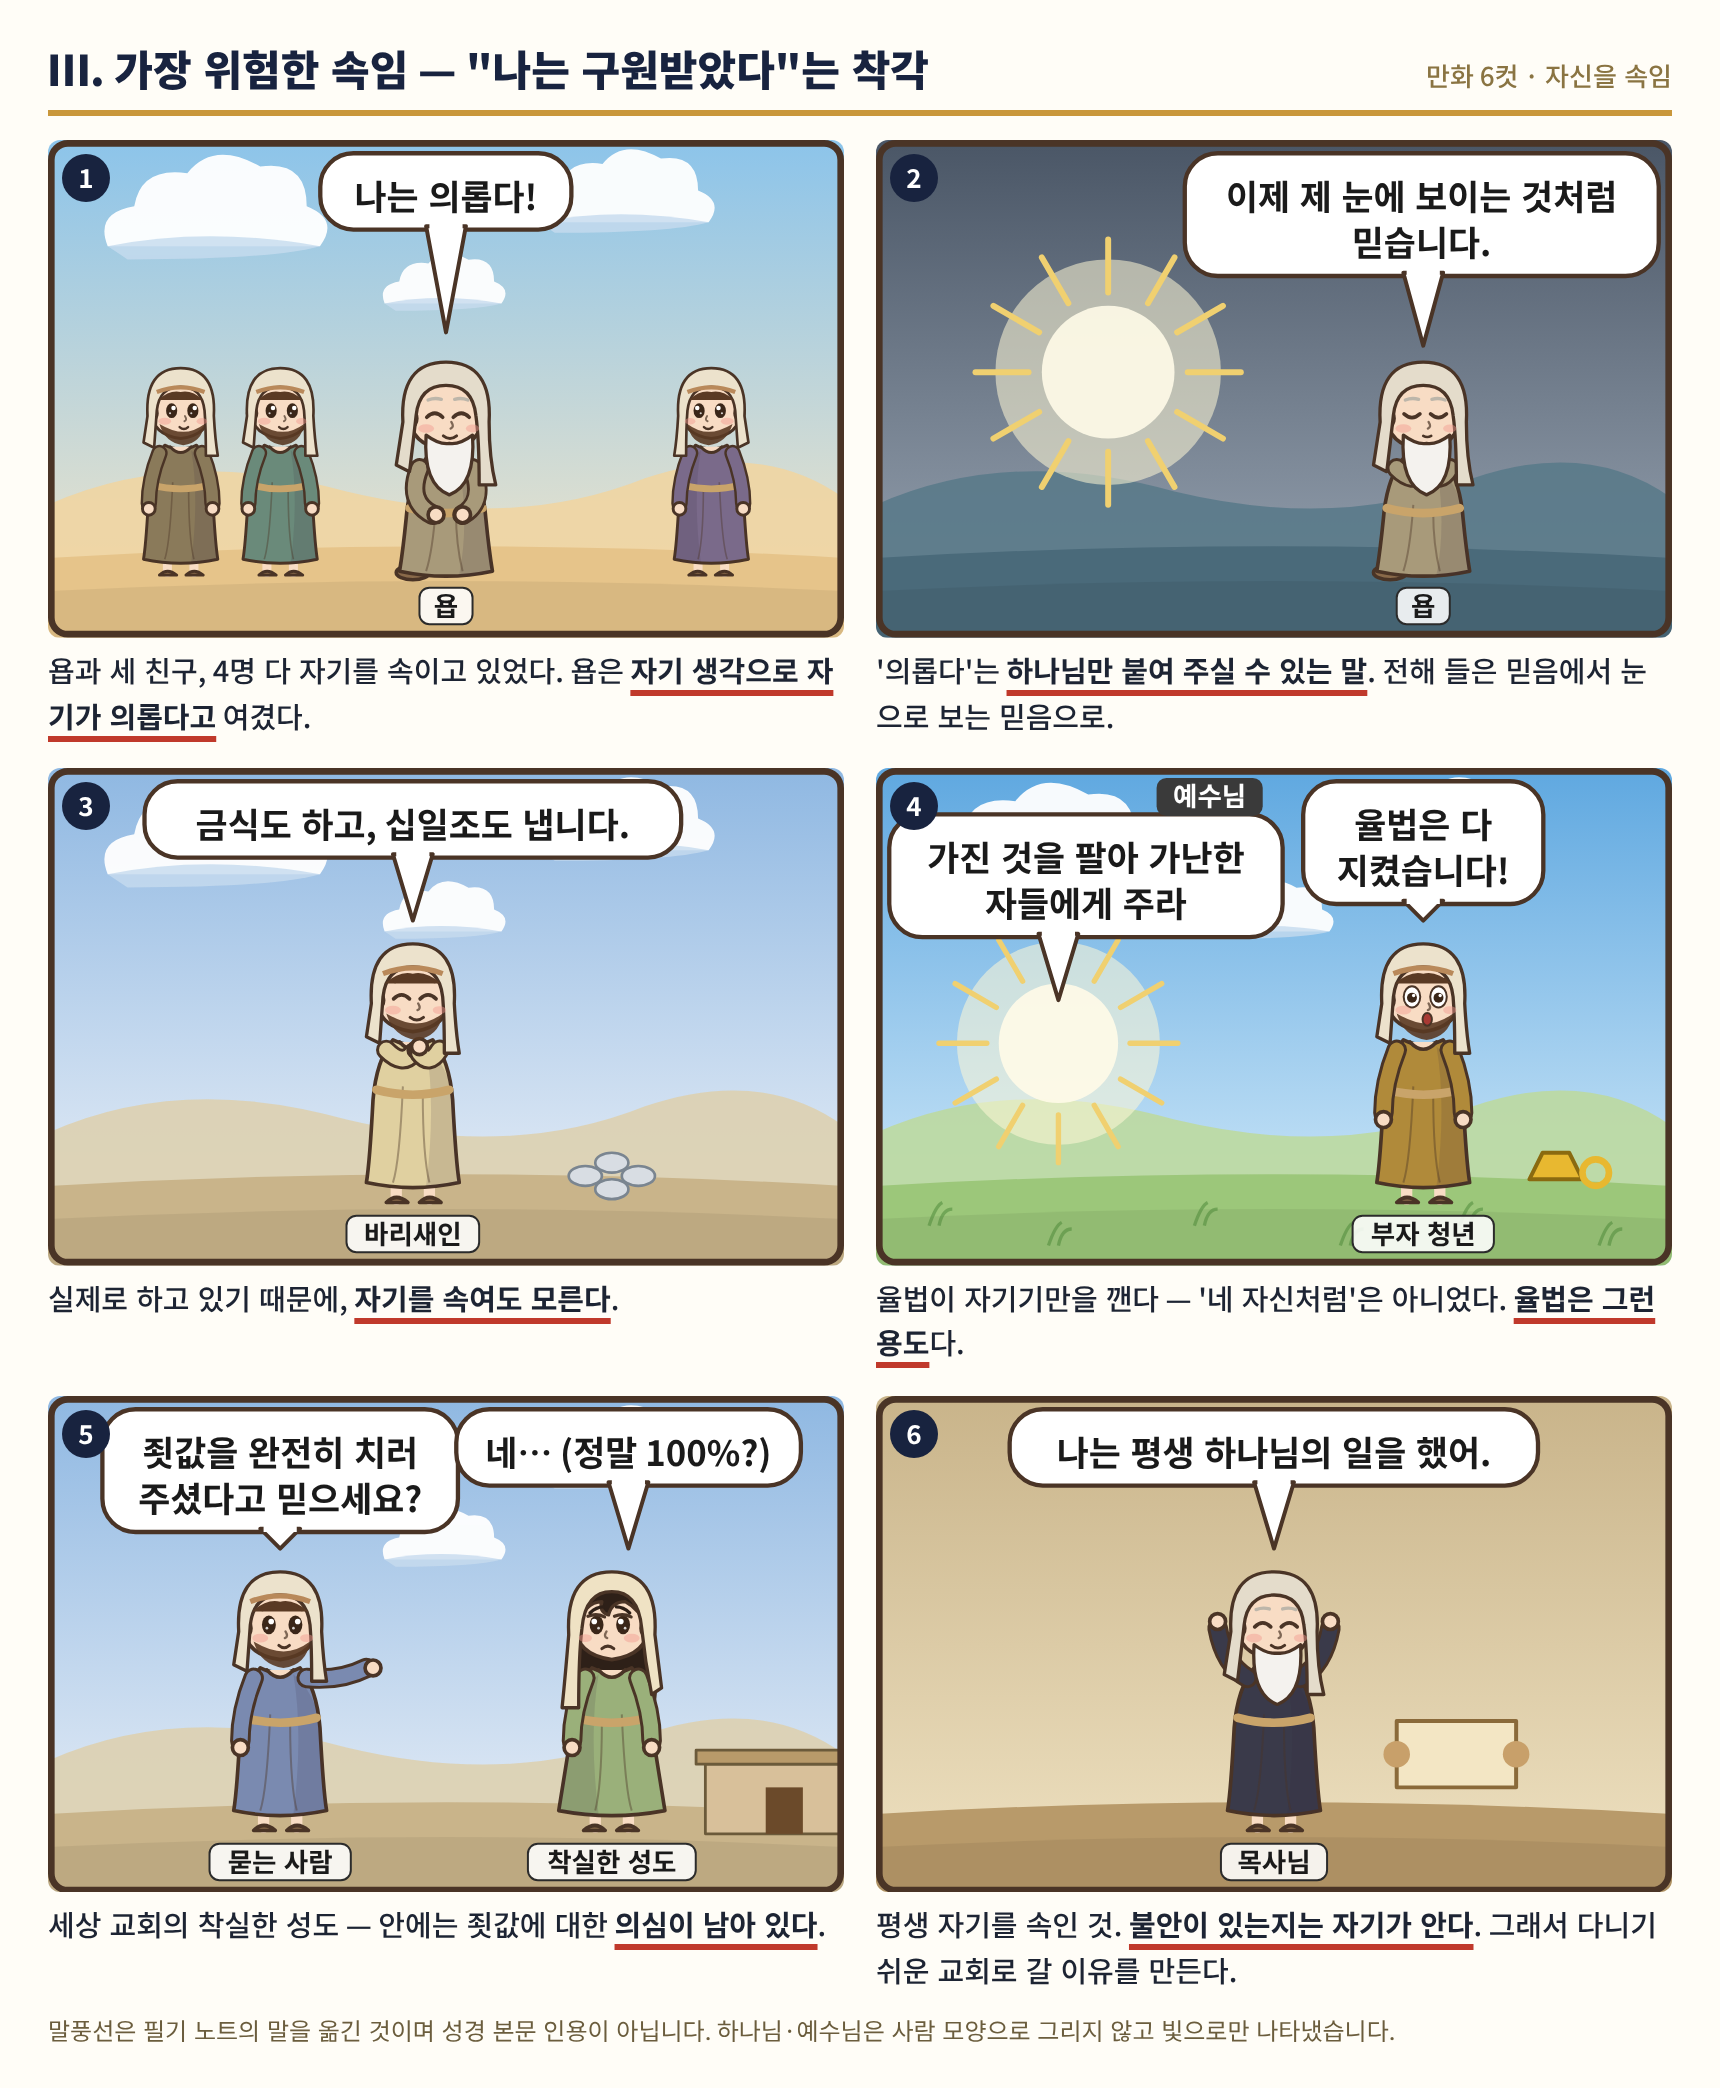
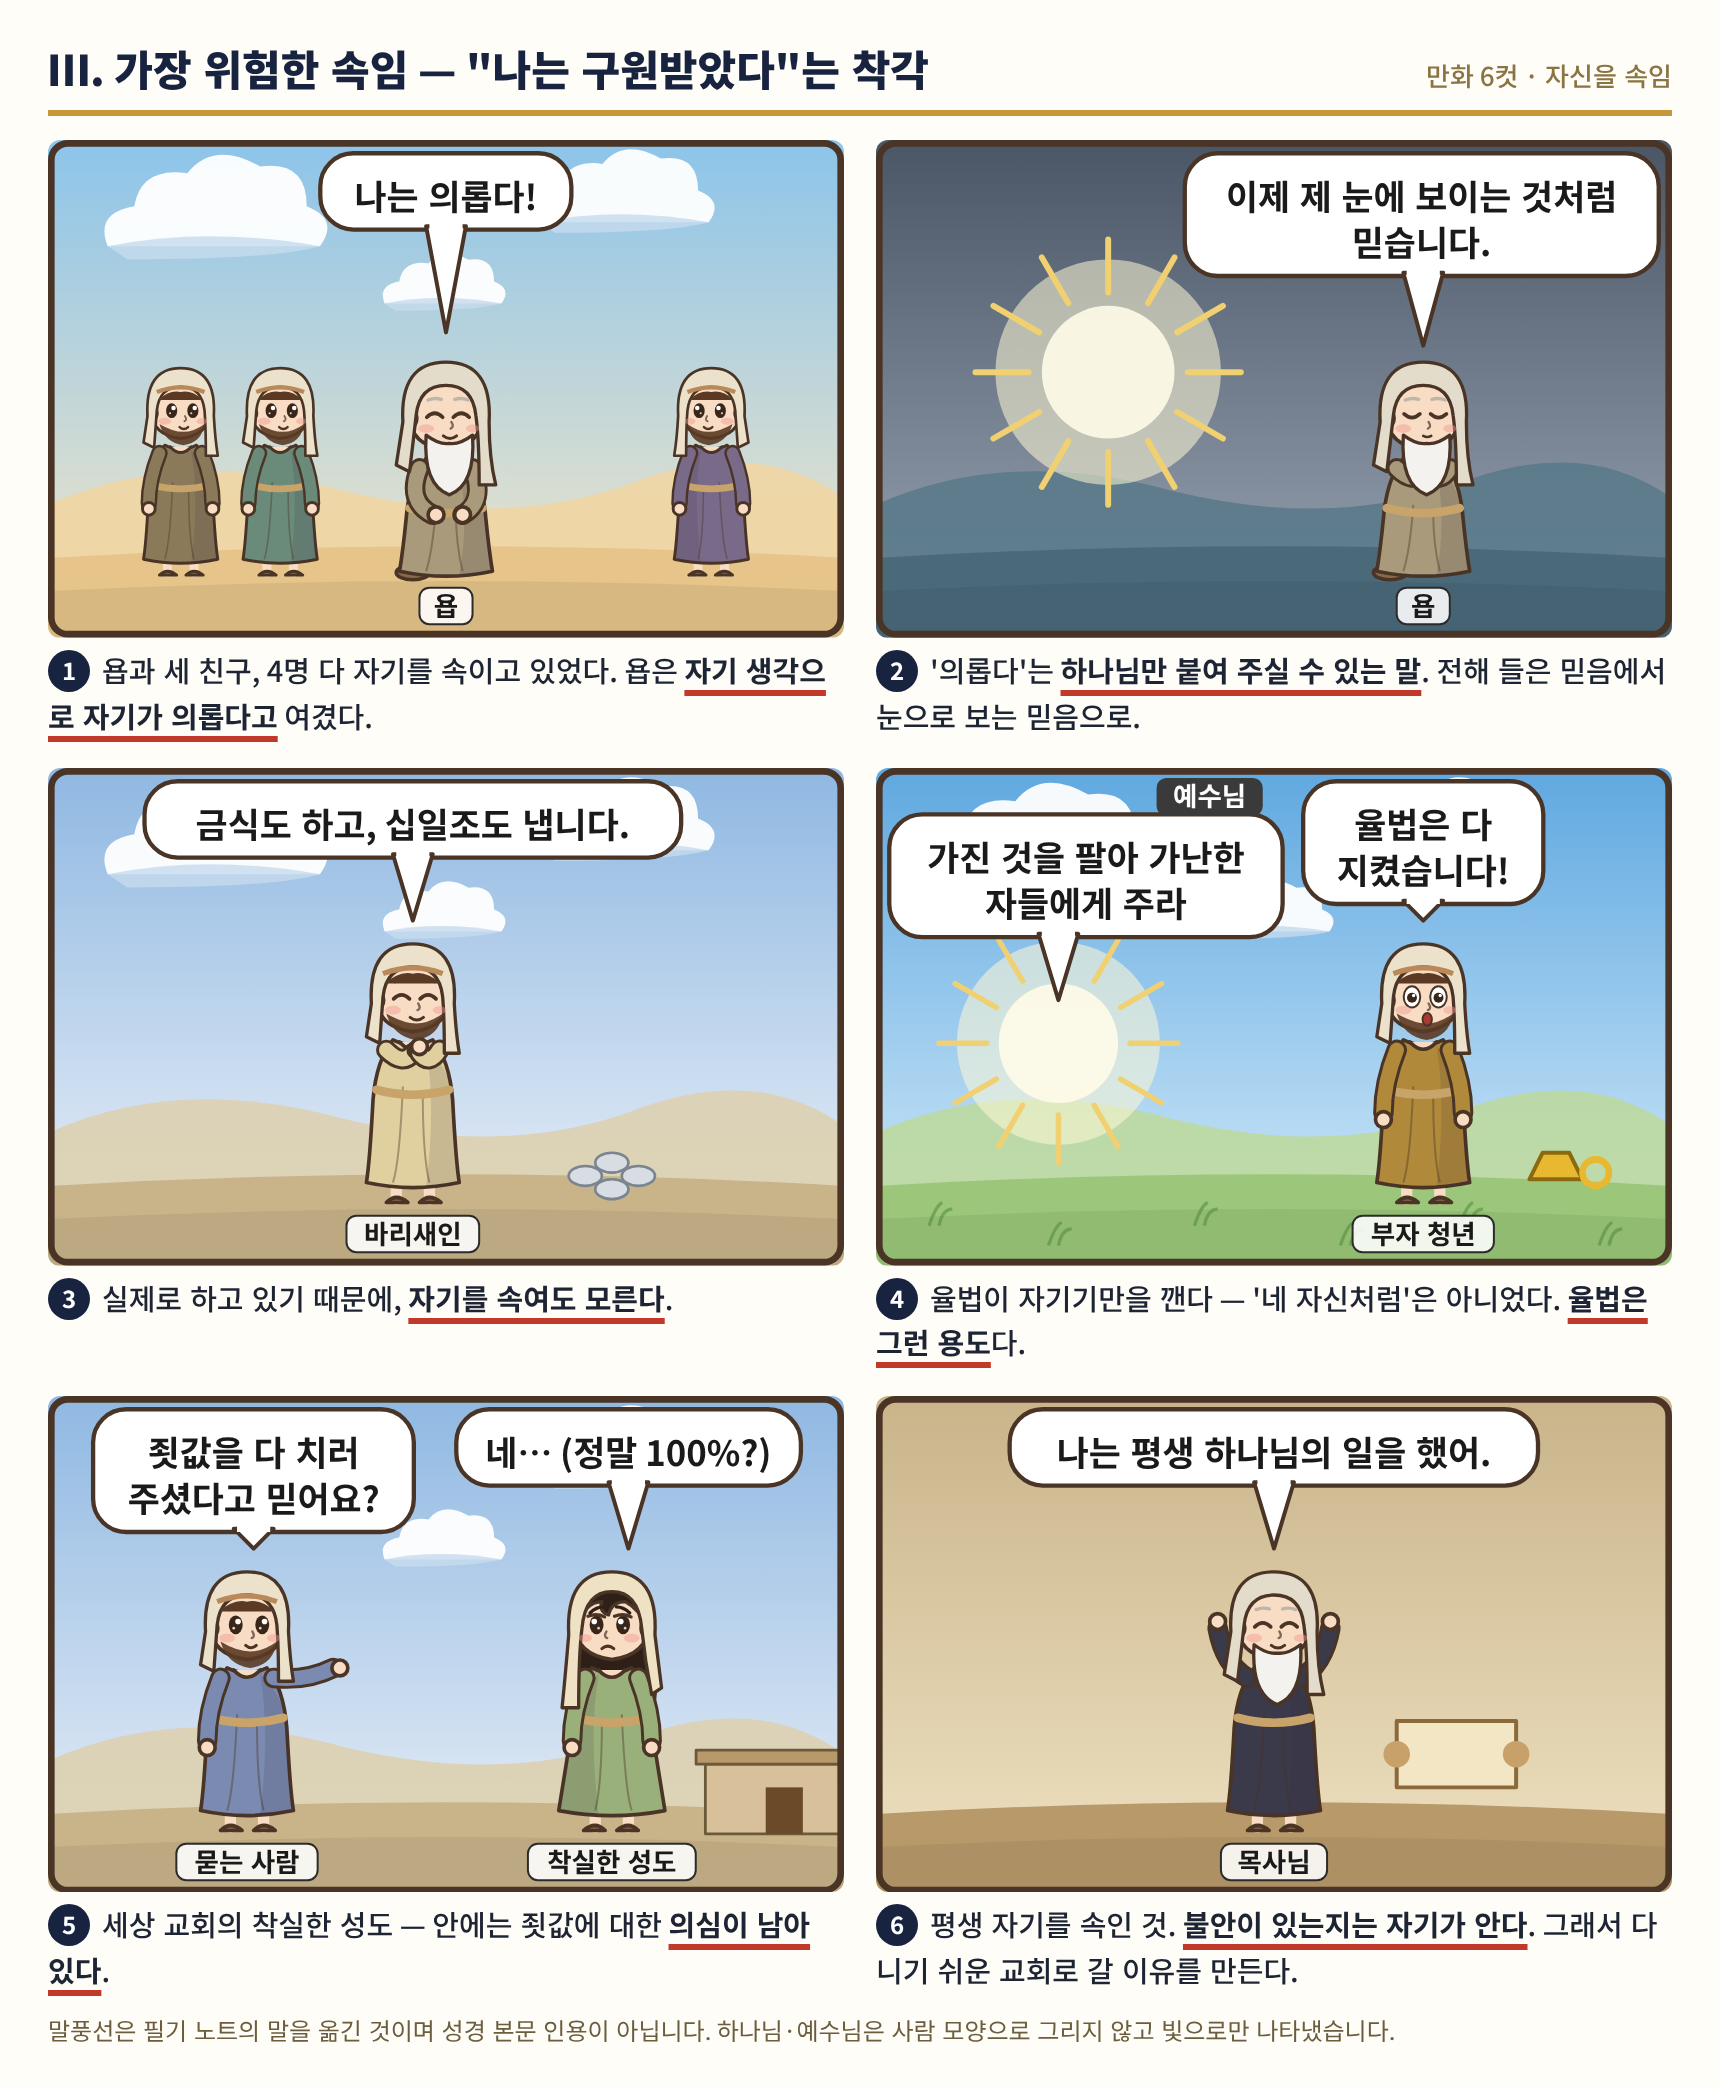
notes: 「자신을 속임」 만화 말풍선 겹침 0건 — 겹침 검사 추가, 컷 번호를 그림 밖으로
Claude-Session: https://claude.ai/code/session_012E7vgodAUKGojCSZ6RWZZn

diff --git a/강의노트/2026-11-08_자신을_속임.md b/강의노트/2026-11-08_자신을_속임.md
@@ -212,4 +212,4 @@
 | Ⅴ 의도 점검 · 들을 귀 | 나 | "내가 그렇구나" — 계속 잔소리를 듣는 귀 |
 
 ---
-*만화는 저장소의 만화 그림 도구(`tools/chapterbook/comic.mjs`)로 그린 코드 그림입니다. 말풍선은 필기 노트의 말을 옮긴 것이며 성경 본문 인용이 아닙니다. 하나님·예수님은 사람 모양으로 그리지 않고 빛으로만 나타냈습니다.*
+*만화는 저장소의 만화 그림 도구(`tools/chapterbook/comic.mjs`)로 그린 코드 그림입니다. 그릴 때 `강의노트/만화/원고/render.mjs`가 말풍선끼리·말풍선과 얼굴·효과음·꼬리 겹침을 검사해 1건이라도 있으면 그리지 않습니다(사용자 지시 2026-11-08). 말풍선은 필기 노트의 말을 옮긴 것이며 성경 본문 인용이 아닙니다. 하나님·예수님은 사람 모양으로 그리지 않고 빛으로만 나타냈습니다.*
